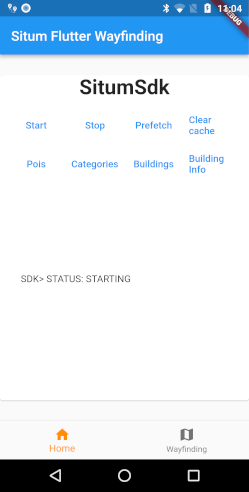
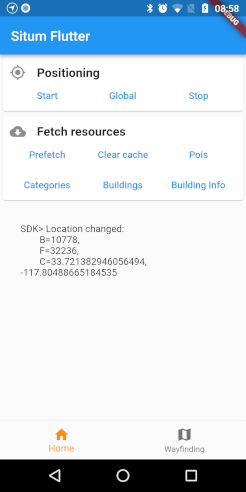
Update example and images

diff --git a/example/lib/main.dart b/example/lib/main.dart
@@ -53,7 +53,6 @@ class _MyTabsState extends State<MyTabs> {
           _sdkButton('Buildings', _fetchBuildings),
           _sdkButton('Building Info', _fetchBuildingInfo),
         ]),
-        _sdkButton('Switch Building', _switchBuilding),
         Expanded(
             child: SingleChildScrollView(
                 padding: const EdgeInsets.all(30), child: Text(currentOutput)))
@@ -235,14 +234,6 @@ class _MyTabsState extends State<MyTabs> {
     _echo("SDK> BUILDINGS...");
     var buildings = await situmSdk.fetchBuildings();
     _echo("SDK> RESPONSE: BUILDINGS = \n\n$buildings");
-  }
-
-  void _switchBuilding() async {
-    mapViewController?.reloadWithConfiguration(MapViewConfiguration(
-        situmUser: situmUser,
-        situmApiKey: situmApiKey,
-        configurationIdentifier: "situm_dev_awesome",
-        mapViewUrl: situmMapUrl));
   }
 
   // ---
